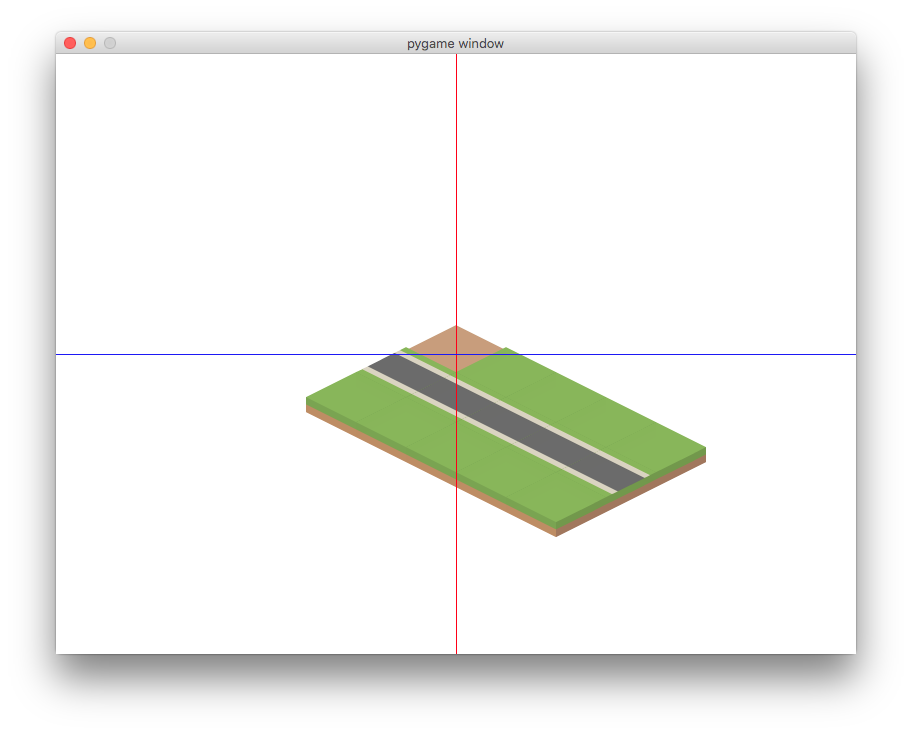
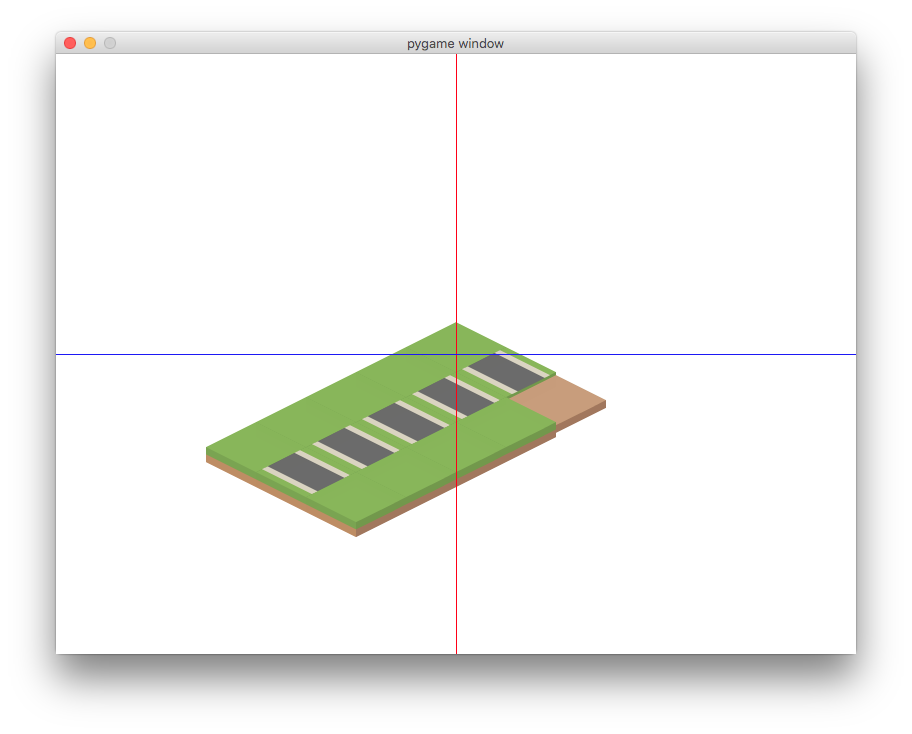
Modify/simplify the tile system. Create a basic IsoSprite class.\tlib now only stores (image, rect) couples.

Changed region(s): [[0.2149, 0.4196, 0.7982, 0.7493]]

diff --git a/isometric_test/isometric/map.py b/isometric_test/isometric/map.py
@@ -1,30 +1,29 @@
 import os
 from . import constants as cst
 from .tileslibrary import tlib
-from .tilepatch import TilePatch
-
+from .tile import Tile
 
 class Map:
 	"""
 	Represents a 2D map made out of tiles.
-	Ascending X : South
-	Ascending Y : West
+	Ascending X : East
+	Ascending Y : South
+	map.tiles is a dict mapping each position to a Tile object
 	"""
 	def __init__(self, width=5, height=5, tiles=None):
 		self.width = width
 		self.height = height
 		if tiles is None:
-			self.tiles = [[tlib.terrain_tiles[cst.NONE_TILE] for y in range(height)] for x in range(width)]
+			self.tiles = dict(((x, y), Tile(pos=(x*cst.TILE_SIZE, y*cst.TILE_SIZE))) for x in range(width) for y in range(height))
 		else:
 			self.tiles = tiles
 
 	@staticmethod
-	def create_plain(tile_type, width, height):
-		""" Creates a 'width'*'height' map with only one tile type. """
+	def create_plain(category, tile_type, width, height):
+		""" Creates a 'width'*'height' map with only one tiletype. """
 		new_map = Map(width=width, height=height)
-		for x in range(width):
-			for y in range(height):
-				new_map.tiles[x][y] = tlib.terrain_tiles[tile_type]
+		for tile in new_map.tiles.values():
+			tile.change(category, tile_type)
 		return new_map
 
 	@staticmethod
@@ -84,37 +83,37 @@ class Map:
 				raise NameError("Could not import map {} as the following is missing :\n{}".format(map_name, not_found))
 
 		# assign TilePatch tiles to a 2D array from symbolic tiles
-		tiles = []
+		tiles = {}
 		for x in range(width):
-			row = []
 			for y in range(height):
-				row.append(TilePatch(*tile_types[tiles_symb[x][y]]))
-			tiles.append(row)
+				cat, tile_type = tile_types[tiles_symb[x][y]]
+				tiles[x, y] = Tile(pos=(x*cst.TILE_SIZE, y*cst.TILE_SIZE), category=cat, tile_type=tile_type)
 
 		return Map(width=width, height=height, tiles=tiles)
+
 
 	def __getitem__(self, pos):
 		""" Allows direct access to the tiles, e.g. some_map[x, y] instead of some_map.tiles[x][y]. If y is not passed (some_map[x]), returns the complete row some_map.tiles[x]. """
 		if isinstance(pos, tuple):
 			x, y = pos
-			return self.tiles[x][y]
+			return self.tiles[x, y]
 		else:
-			return self.tiles[pos]
+			x = pos
+			return self.tiles[x, 0]
 
-	def __setitem__(self, pos, tile_type, tile_category="terrain_tiles"):
+	def __setitem__(self, pos, category, tile_type):
 		""" Allows direct replacement of a tile using its tile_type, i.e. a string value. Looks for tile_type in the tlib.<tile_category> dictionnary.
 		If pos is a (x, y) tuple, changes the tile at (x, y).
 		If only x is passed, changes the whole row to the given tile. """
 		if isinstance(pos, tuple):
-			x, y = pos
-			self.tiles[x][y] = getattr(tlib, tile_category)[tile_type]
+			self.tiles[pos].change(category=category, tile_type=tile_type)
 		else:
 			x = pos
 			for y in range(self.height):
-				self.tiles[x][y] = getattr(tlib, tile_category)[tile_type]
+				self.tiles[x, y].change(category=category, tile_type=tile_type)
 
 	def __iter__(self):
 		""" Iterates over the map tiles, in descending depth (y) order. """
 		for y in range(self.height):
 			for x in range(self.width):
-				yield self.tiles[x][y]
+				yield self.tiles[x, y]

diff --git a/isometric_test/isometric/player.py b/isometric_test/isometric/player.py
@@ -2,21 +2,71 @@ import os
 import pygame
 from . import constants as cst
 from . import utils
+from .isosprite import IsoSprite
 
 sqrt2 = 1.41421
 
-class Mob(pygame.sprite.Sprite):
+# class Mob(pygame.sprite.Sprite):
+# 	"""
+# 	A mob that can move on the map.
+# 	Initial position must be given in terms of pixels.
+# 	"""
+# 	def __init__(self, pos=None):
+# 		super(Mob, self).__init__()
+# 		if pos is None:
+# 			self.pos = [0, 0]
+# 		else:
+# 			self.pos = pos
+# 		self.image, self.rect = utils.load_image(os.path.join(cst.IMG_DIR, *["characters", "mob_test.png"]))
+# 		self.speed = 5
+	
+# 	def update(self):
+# 		"""
+# 		Moves the mob according to the keys being pressed.
+# 		"""
+# 		# find keys
+# 		keys = pygame.key.get_pressed()
+# 		right = keys[pygame.K_RIGHT]
+# 		left = keys[pygame.K_LEFT]
+# 		up = keys[pygame.K_UP]
+# 		down = keys[pygame.K_DOWN]
+# 		# build velocity
+# 		velocity = [0, 0]
+# 		if right:
+# 			velocity[0] += self.speed
+# 		if left:
+# 			velocity[0] += -self.speed
+# 		if up:
+# 			velocity[1] += -self.speed
+# 		if down:
+# 			velocity[1] += self.speed
+# 		# diagonal speeding effects
+# 		if up and right or up and left or down and right or down and left:
+# 			velocity[0] /= 1.2
+# 			velocity[1] /= 1.2
+# 		if up and right or down and left:
+# 			velocity[0] /= sqrt2
+# 			velocity[1] /= sqrt2
+# 		# move pos and rect
+# 		self.pos[0] += velocity[0]
+# 		self.pos[1] += velocity[1]
+# 		self.rect.center = self.pos
+
+# 	def display(self, screen):
+# 		iso_x, iso_y = utils.cart_to_iso(self.pos)
+# 		rect = self.rect
+# 		rect.centerx = iso_x + screen.get_width()//2
+# 		rect.centery = iso_y + screen.get_height()//2
+# 		screen.blit(self.image, rect)
+
+class Mob(IsoSprite):
 	"""
 	A mob that can move on the map.
 	Initial position must be given in terms of pixels.
 	"""
 	def __init__(self, pos=None):
-		super(Mob, self).__init__()
-		if pos is None:
-			self.pos = [0, 0]
-		else:
-			self.pos = pos
-		self.image, self.rect = utils.load_image(os.path.join(cst.IMG_DIR, *["characters", "mob_test.png"]))
+		path_to_image = os.path.join(cst.IMG_DIR, *["characters", "mob_test.png"])
+		super(Mob, self).__init__(path_to_image=path_to_image, pos=pos)
 		self.speed = 5
 	
 	def update(self):
@@ -46,14 +96,5 @@ class Mob(pygame.sprite.Sprite):
 		if up and right or down and left:
 			velocity[0] /= sqrt2
 			velocity[1] /= sqrt2
-		# move pos and rect
-		self.pos[0] += velocity[0]
-		self.pos[1] += velocity[1]
-		self.rect.center = self.pos
-
-	def display(self, screen):
-		iso_x, iso_y = utils.cart_to_iso(self.pos)
-		rect = self.rect
-		rect.centerx = iso_x + screen.get_width()//2
-		rect.centery = iso_y + screen.get_height()//2
-		screen.blit(self.image, rect)
+		# update position accordingly
+		self.pos = [self.pos[0] + velocity[0], self.pos[1] + velocity[1]]

diff --git a/isometric_test/isometric/isosprite.py b/isometric_test/isometric/isosprite.py
@@ -5,39 +5,50 @@ from . import utils
 class IsoSprite(pygame.sprite.Sprite):
 	"""
 	A very basic class which implements isometric perspective to the pygame.sprite.Sprite baseclass.
-	IsoSprite has a pos and rect in Cartesian space, and an iso_pos and iso_rect in Isometric space.
-	Modifying any of those (eg s.pos = (4, 0)) changes the other position or rect if necessary, in a cycle :
-	pos -> iso_pos -> iso_rect -> rect -> pos ...
+	pos is the sprite's position in the cartesian space
+	iso_pos is the sprite's position in the isometric (screen) space
+	rect is the sprite's rect **in isometric (screen) space**
 	"""
 
-	def __init__(self, path_to_image, pos=None):
+	def __init__(self, path_to_image=cst.NONE_TILE_PATH, pos=None):
 		super(IsoSprite, self).__init__()
-		self.image, self.iso_rect = utils.load_image(path_to_image)
+		self.image, self.rect = utils.load_image(path_to_image)
 		if pos is None:
 			self._pos = [0, 0]  # in pixels on cartesian map
 		else:
 			self._pos = pos
+		self._iso_pos = None  # in pixels on isometric (screen) map
+		self.update_positions(pos=True)
 
 	def get_pos(self):
 		return self._pos
 
-	def set_pos(self, new_pos):
-		self._pos = new_pos
+	def set_pos(self, pos):
+		self._pos = pos
 		self.update_positions(pos=True)
+
+	pos = property(get_pos, set_pos)
+
+	def get_iso_pos(self):
+		return self._iso_pos
+
+	def set_iso_pos(self, iso_pos):
+		self._iso_pos = iso_pos
+		self.update_positions(iso_pos=True)
+
+	iso_pos = property(get_pos, set_pos)
 
 	def update_positions(self, pos=False, iso_pos=False):
 		if pos:  # self.pos just changed
 			self._iso_pos = utils.cart_to_iso(self._pos)
 			self.rect.center = self._iso_pos
-		if iso_pos:  # self.iso_pos just changed
+		elif iso_pos:  # self.iso_pos just changed
 			self._pos = utils.iso_to_cart(self._iso_pos)
 			self.rect.center = self._iso_pos
 
 	def display(self, screen):
 		"""Displays the sprite on the screen in isometric perspective"""
-		iso_x, iso_y = utils.cart_to_iso(self.pos)
-		iso_x, iso_y = utils.cart_to_iso(self.pos)
 		rect = self.rect
-		rect.centerx = iso_x + screen.get_width()//2
-		rect.centery = iso_y + screen.get_height()//2
+		rect.centerx += screen.get_width()//2
+		rect.centery += screen.get_height()//2
 		screen.blit(self.image, rect)

diff --git a/isometric_test/isometric/tileslibrary.py b/isometric_test/isometric/tileslibrary.py
@@ -2,11 +2,10 @@ import os
 from collections import namedtuple
 from . import constants as cst
 from . import utils
-from .tilepatch import TilePatch
 
 
 """
-The tiles library contains all Tile Patches available from static/img/tiles.
+The tiles library contains all pairs of (image, rects) available from static/img/tiles.
 Usage:
 from .tileslibrary import tlib
 """
@@ -21,7 +20,8 @@ for cat in cst.TILE_CATEGORIES:
 		for f in files:
 			if f.endswith(".png"):
 				tile_type = f.replace(".png", "")
-				getattr(tlib, cat+"_tiles")[tile_type] = TilePatch(category=cat, tile_type=tile_type)
+				image, rect = utils.load_image(os.path.join(cst.IMG_DIR, *["tiles", cat, f]))
+				getattr(tlib, cat+"_tiles")[tile_type] = [image, rect]
 	print("OK")
 
 print("-- LOADING FINISHED : Tiles library --")

diff --git a/isometric_test/isometric/tile.py b/isometric_test/isometric/tile.py
@@ -1,0 +1,18 @@
+import os
+from . import constants as cst
+from . import utils
+from .tileslibrary import tlib
+from .isosprite import IsoSprite
+
+class Tile(IsoSprite):
+	"""
+	An IsoSprite representing a tile.
+	"""
+	def __init__(self, pos=None, category="none", tile_type=cst.NONE_TILE):
+		super(Tile, self).__init__(pos=pos)
+		self.image, self.rect = getattr(tlib, "{}_tiles".format(category))[tile_type]
+		self.rect.center = self.iso_pos
+
+	def change(self, category, tile_type):
+		"""Changes the tile to a new category and tile_type"""
+		self.image, self.rect = getattr(tlib, "{}_tiles".format(category))[tile_type]

diff --git a/isometric_test/isometric/utils.py b/isometric_test/isometric/utils.py
@@ -14,16 +14,25 @@ def load_image(path_to_image):
     return image, image.get_rect()
 
 def cart_to_iso(*pos):
+    if len(pos) == 1:
+        pos = pos[0]
     x, y = pos
     return (x-y), (x+y)/2
 
 def iso_to_cart(*pos):
+    if len(pos) == 1:
+        pos = pos[0]
+    x, y = pos
     return (2*y + x)/2, (2*y - x)/2
 
 def tile_to_cart(*pos):
+    if len(pos) == 1:
+        pos = pos[0]
     i, j = pos
     return cst.TILE_SIZE*i, cst.TILE_SIZE*j
 
 def tile_to_iso(*pos):
+    if len(pos) == 1:
+        pos = pos[0]
     i, j = pos
     return cart_to_iso(*tile_to_cart(i, j))

diff --git a/isometric_test/isometric/constants.py b/isometric_test/isometric/constants.py
@@ -17,3 +17,4 @@ SCREEN = pygame.display.set_mode((SCREEN_WIDTH, SCREEN_HEIGHT))  # set a screen 
 
 # Map system-related constants
 NONE_TILE = "none"  # the name of the blank tile (must be in terrain folder)
+NONE_TILE_PATH = os.path.join(IMG_DIR, *["tiles", "none", "none.png"])

diff --git a/isometric_test/isometric/isometric.py b/isometric_test/isometric/isometric.py
@@ -3,7 +3,6 @@ import pygame
 from . import constants as cst
 from . import utils
 from .tileslibrary import tlib
-from .tilepatch import TilePatch
 from .map import Map
 from .player import Mob
 

diff --git a/isometric_test/docs/iso_docs.md b/isometric_test/docs/iso_docs.md
@@ -61,16 +61,17 @@ Par exemple, prenons une map carrée de 100 cases de côté et calculons les coo
 
 Les lignes rouges et bleues indiquent juste le centre de l'écran. La position initiale d'une map carrée comme celle-ci a pu changer avec les nouvelles versions de l'affichage.
 
-### Bibliothèque de cases (TilePatch, TileLibrary)
+### Bibliothèque de cases (Tile, TileLibrary)
 
-Comme dit précédemment, on va utiliser des cases pré-fabriquées qu'on aura qu'à blitter à l'écran pour l'affichage : ce sont les `TilePatch`.
-Un `TilePatch` associe simplement une image et un rect à une catégorie de case ("terrain", "building", etc.) et à un nom de case ("grass", "wallRock", "roadCornerNW", etc.).
+Màj (le 11/08/2016)
 
 Le dossier d'images de cases est situé `static/img/tiles`. Chaque catégorie de cases est un sous-dossier du dossier `tiles`.
 
-Le fichier `tileslibrary` construit automatiquement tous les TilePatches à partir du contenu du dossier `tiles`.
+Le fichier `tileslibrary` construit automatiquement autant de dictionnaires de tiles qu'il y a de sous-dossiers dans le dossier `tiles`. Chaque dictionnaire est un attribut de l'objet `tlib`. Ce qui est stocké dans ces dictionnaire est une association entre le nom de la tile et le couple (image, rect) associé qui a été pré-chargé.
 
-Chaque catégorie a alors son propre dictionnaire qui est un attribut de l'objet `tlib`. Par exemple, pour obtenir le `TilePatch` de la case "grass" (qui est de la catégorie "terrain"), on utilise : `tlib.terrain_tiles["grass"]`. Et pour utiliser le `tlib` dans un module, on écrit `from .tileslibrary import tlib`. Je trouve ça assez simple d'utilisation et le fait que tout soit lié à la structure du dossier `tiles` permet de s'y retrouver assez facilement (même si c'était assez compliqué à coder ^^).
+Par exemple, pour obtenir l'image et le rect de la case "grass" (qui est de la catégorie "terrain"), on utilise : `tlib.terrain_tiles["grass"]`. Et pour utiliser le `tlib` dans un module, on écrit `from .tileslibrary import tlib`.
+
+On a ainsi construit la classe `Tile` qui dérive de `IsoSprite`, en récupérant le `image` et le `rect` depuis la `tlib`.
 
 ### Système de maps
 
@@ -82,11 +83,11 @@ Un fichier de map est un fichier d'extension `.map`. Chaque fichier `.map` doit 
 WIDTH
 """donner la largeur de la map (nombre entier)"""
 # exemple :
-5
+3
 HEIGHT
 """donner la largeur de la map (nombre entier)"""
 # exemple :
-3
+5
 
 TILE_TYPES
 """indiquer les types de cases utilisées comme suit :
@@ -101,12 +102,14 @@ TILES_ARRAY
 """indiquer la map sous forme matricielle en utilisant
 les symboles"""
 # exemple :
-20000
-11111
-20000
+012
+010
+010
+010
+010
 END  # terminer par END
 
-END_OF_FILE  # termine le fichier
+END_OF_FILE  # termine le fichier .map
 ```
 
 Actuellement, voici les conventions de la rose des vents :
@@ -117,3 +120,7 @@ Actuellement, voici les conventions de la rose des vents :
 Voici ce que donne l'exemple ci-dessus (on peut y avoir la correspondance des directions entre `TILES_ARRAY` et la vue isométrique).
 
 ![](img/docmap.png)
+
+### Isometric depth sorting (IDS)
+
+ça arrive !
